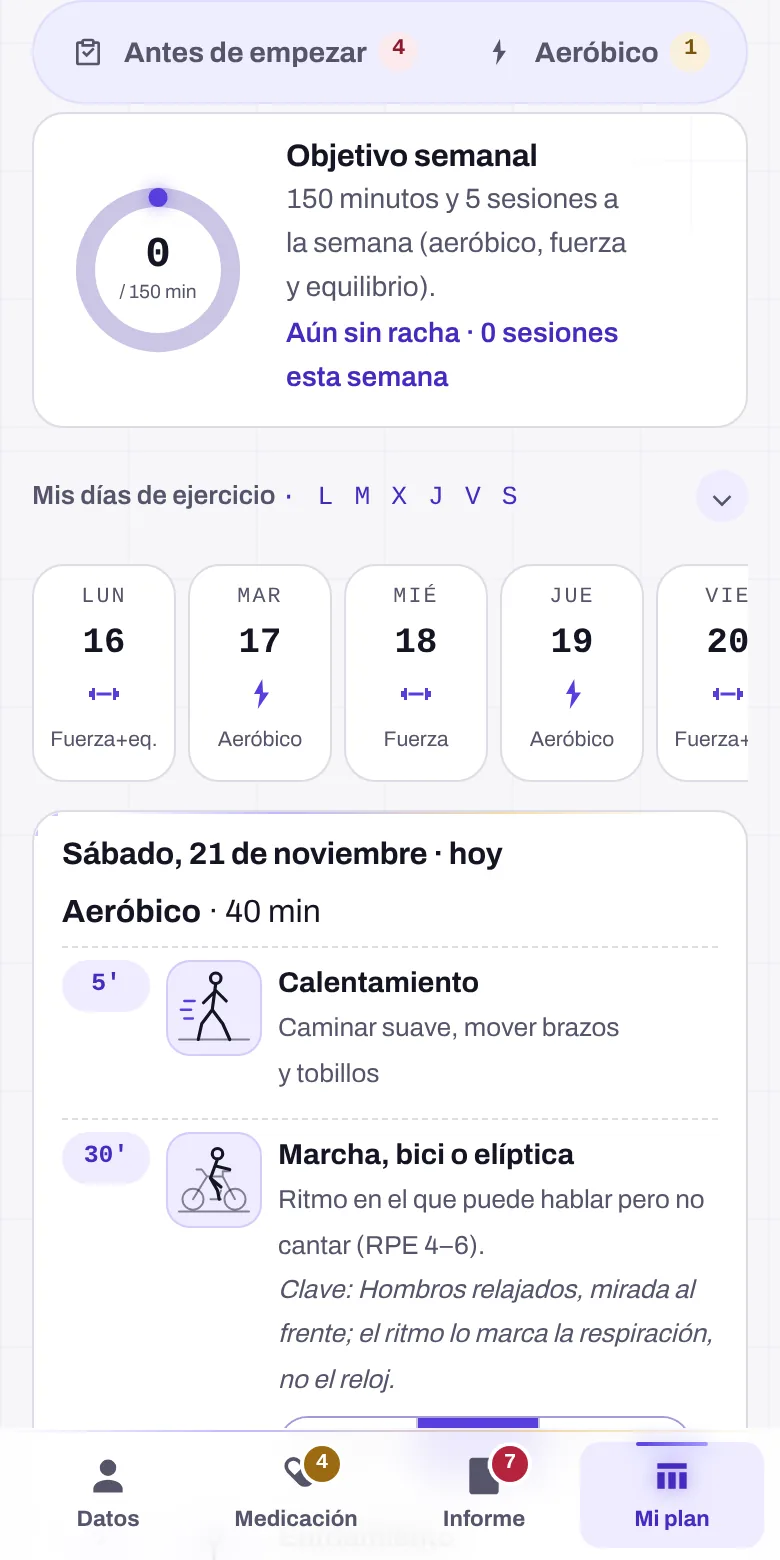
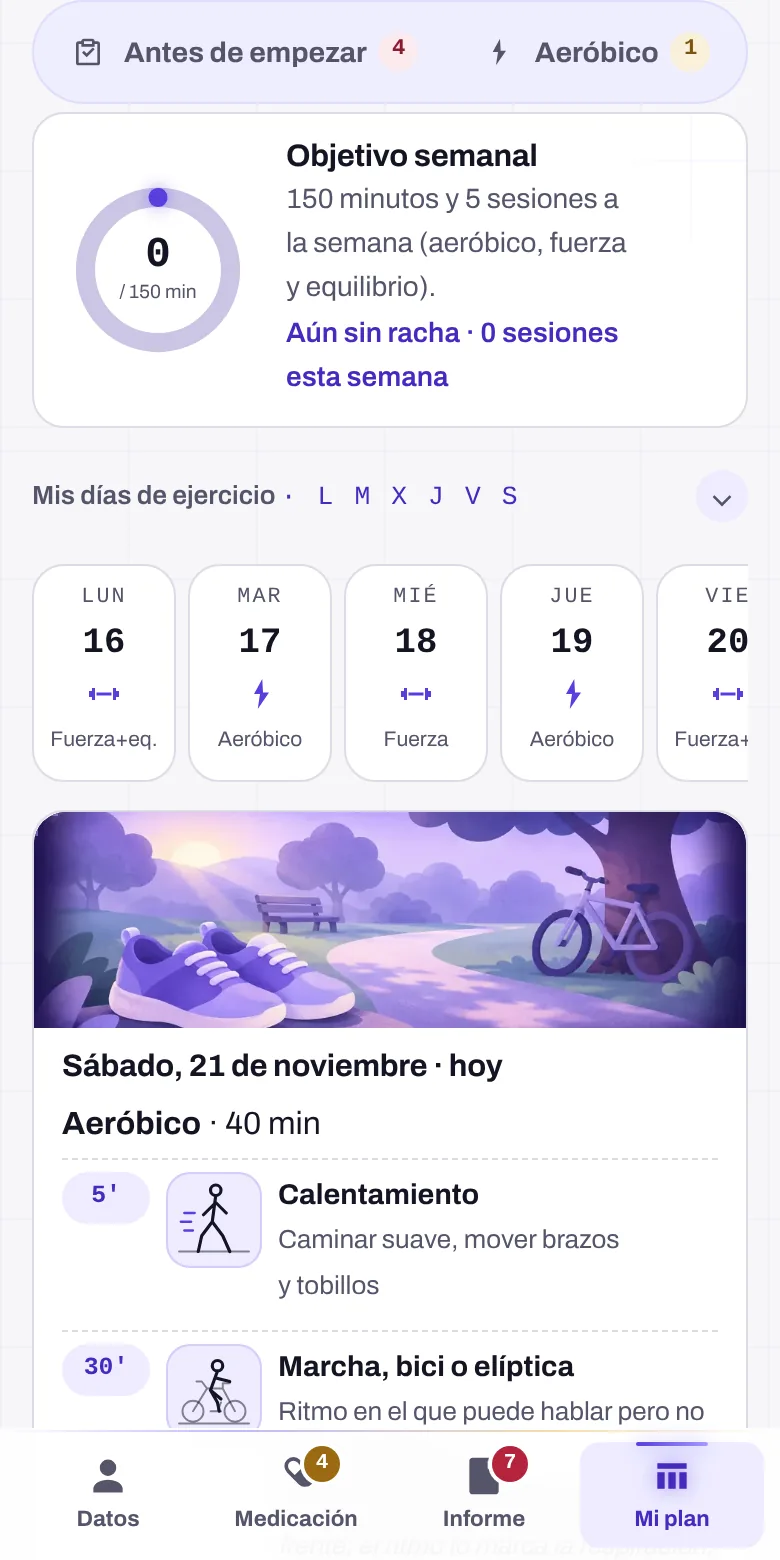
Imagenes de la app (bloque PA1 completo, 30 de 30): banda del dia en Mi plan (aerobico, fuerza, equilibrio, paseo) e ilustracion de cada sintoma en Si nota algo; capturas rehechas
Claude-Session: https://claude.ai/code/session_01WtVgh7xbR4kRDDh9Je2ank

Changed region(s): [[0.0308, 0.4923, 0.9538, 0.9231], [0.0923, 0.8615, 0.1538, 0.8923]]

diff --git a/app/js/app.js b/app/js/app.js
@@ -1,11 +1,11 @@
-import { construirIndice, buscar, evaluar, informeTexto, ORDEN_NIVEL, MOMENTOS, MOMENTO_TXT, HORA_MOMENTO, momentosPorDefecto, ventanaEntrenamiento, loEsencial, ALARMA, sintomasPosibles, SINTOMAS, sesionTipo, objetivoSemanal, rachaSemanas, progresion, planSemana, minutosPorSemana, compararListas, constantesRelevantes, chequeoPrevio, veredictoChequeo, SINTOMAS_ACSM, enfermedadSugerida, cribadoACSM, CRIBADO_TXT, nivelEvidencia, EVIDENCIA, seccionFT, comprobarCaso, zonaIntensidad, impactoPorFarmaco, puntuarSPPB, vivifrailDeSppb, evolucion, textoEvolucion } from "./engine.js?v=202611211158";
-import { APP_VERSION } from "./version.js?v=202611211158";
-import { extraerMedicacion, textoDePdf } from "./parser.js?v=202611211158";
-import { picto } from "./pictos.js?v=202611211158";
-import { pdfMedico, pdfPaciente, pdfEntrenador, pdfTarjeta, textoHistoria, prescripcion, listasVistazo, ritmoTexto, filasPlanPaciente, pdfEvolucion } from "./informes.js?v=202611211158";
-import { cargarScript } from "./libs.js?v=202611211158";
-import { textoDeImagen, textoDePdfEscaneado } from "./ocr.js?v=202611211158";
-import { t, aplicarIdioma, detectarIdioma, idioma } from "./i18n.js?v=202611211158";
+import { construirIndice, buscar, evaluar, informeTexto, ORDEN_NIVEL, MOMENTOS, MOMENTO_TXT, HORA_MOMENTO, momentosPorDefecto, ventanaEntrenamiento, loEsencial, ALARMA, sintomasPosibles, SINTOMAS, sesionTipo, objetivoSemanal, rachaSemanas, progresion, planSemana, minutosPorSemana, compararListas, constantesRelevantes, chequeoPrevio, veredictoChequeo, SINTOMAS_ACSM, enfermedadSugerida, cribadoACSM, CRIBADO_TXT, nivelEvidencia, EVIDENCIA, seccionFT, comprobarCaso, zonaIntensidad, impactoPorFarmaco, puntuarSPPB, vivifrailDeSppb, evolucion, textoEvolucion } from "./engine.js?v=202611211214";
+import { APP_VERSION } from "./version.js?v=202611211214";
+import { extraerMedicacion, textoDePdf } from "./parser.js?v=202611211214";
+import { picto } from "./pictos.js?v=202611211214";
+import { pdfMedico, pdfPaciente, pdfEntrenador, pdfTarjeta, textoHistoria, prescripcion, listasVistazo, ritmoTexto, filasPlanPaciente, pdfEvolucion } from "./informes.js?v=202611211214";
+import { cargarScript } from "./libs.js?v=202611211214";
+import { textoDeImagen, textoDePdfEscaneado } from "./ocr.js?v=202611211214";
+import { t, aplicarIdioma, detectarIdioma, idioma } from "./i18n.js?v=202611211214";
 
 // Si la hoja de estilos aún no ha llegado (los módulos se precargan en paralelo), esperar: así la primera maquetación ya es la definitiva y no hay saltos.
 await new Promise((ok) => { const l = document.querySelector('link[rel="stylesheet"]'); if (!l || l.sheet) ok(); else { l.addEventListener("load", ok, { once: true }); l.addEventListener("error", ok, { once: true }); setTimeout(ok, 4000); } });
@@ -1068,6 +1068,7 @@ function sintomaDetalle(res) {
   const s = sintomasPosibles(res).find((x) => x.id === sintomaAbierto);
   if (!s) return "";
   return `<div class="sintoma">
+    <img class="sint-img" src="assets/img/sintoma-${s.id}.webp" alt="" width="104" height="104" decoding="async">
     <p>${s.farmacos.length ? t("sintomas.posibles", { f: s.farmacos.join(", ") }) : t("sintomas.ninguno")}</p>
     <p>${glosar(s.consejo)}</p>
     ${s.alarma ? `<p class="sintoma-alarma">${s.alarma}</p>` : ""}
@@ -1648,6 +1649,7 @@ function renderPlan(cont) {
     </details>
     <div class="tira" role="group" aria-label="${t("hoy.esta_semana")}">${dias.map((d) => { const iso = hoyISO(d); const tipo = plan[d.getDay()] || "descanso"; const hecho = diario.some((x) => x.fecha === iso); const clase = ["dia", iso === hoy ? "hoy" : "", iso === diaPlan ? "sel" : "", hecho ? "hecho" : "", tipo === "descanso" ? "descanso" : ""].filter(Boolean).join(" "); return `<button type="button" class="${clase}" data-iso="${iso}" aria-pressed="${iso === diaPlan}"><span class="d">${fmtDia(d)}</span><span class="n">${d.getDate()}</span>${icono({ aerobico: "aerobico", fuerza: "fuerza", fuerza_eq: "fuerza", descanso: "paseo" }[tipo] || "fuerza")}<span class="tipo">${{ aerobico: t("sesion.aerobico"), fuerza: t("sesion.fuerza"), fuerza_eq: t("plan.fuerza_eq_corto"), descanso: t("plan.descanso_corto") }[tipo]}</span>${hecho ? `<span class="ok">✓</span>` : ""}</button>`; }).join("")}</div>
     <div class="plan-dia">
+      <img class="plan-banda" src="assets/img/${{ aerobico: "plan-aerobico", fuerza: "plan-fuerza", fuerza_eq: "plan-equilibrio", equilibrio: "plan-equilibrio" }[tipoSel] || "plan-paseo"}.webp" alt="" width="960" height="480" loading="lazy" decoding="async">
       <div class="plan-dia-cab"><h3>${sel.toLocaleDateString(idioma(), { weekday: "long", day: "numeric", month: "long" })}${hoyISO(sel) === hoy ? ` · ${t("hoy.titulo").toLowerCase()}` : ""}</h3>${hechoSel.length ? `<span class="chip chip-ok">${t("plan.hecho", { m: hechoSel.reduce((n, x) => n + (x.min || 0), 0) })}</span>` : ""}</div>
       ${ses ? `
         <p class="plan-dia-tit"><b>${ses.titulo}</b> · ${ses.min} min</p>

diff --git a/app/index.html b/app/index.html
@@ -58,18 +58,18 @@
 }
 </script>
 <link rel="preload" href="assets/fonts/Archivo-latin.woff2" as="font" type="font/woff2" crossorigin>
-<link rel="modulepreload" href="js/version.js?v=202611211158">
-<link rel="modulepreload" href="js/libs.js?v=202611211158">
-<link rel="modulepreload" href="js/i18n.js?v=202611211158">
-<link rel="modulepreload" href="js/pictos.js?v=202611211158">
-<link rel="modulepreload" href="js/engine.js?v=202611211158">
-<link rel="modulepreload" href="js/parser.js?v=202611211158">
-<link rel="modulepreload" href="js/informes.js?v=202611211158">
-<link rel="modulepreload" href="js/ocr.js?v=202611211158">
+<link rel="modulepreload" href="js/version.js?v=202611211214">
+<link rel="modulepreload" href="js/libs.js?v=202611211214">
+<link rel="modulepreload" href="js/i18n.js?v=202611211214">
+<link rel="modulepreload" href="js/pictos.js?v=202611211214">
+<link rel="modulepreload" href="js/engine.js?v=202611211214">
+<link rel="modulepreload" href="js/parser.js?v=202611211214">
+<link rel="modulepreload" href="js/informes.js?v=202611211214">
+<link rel="modulepreload" href="js/ocr.js?v=202611211214">
 <link rel="preload" href="data/kb.json" as="fetch" crossorigin>
 <link rel="preload" href="data/ddi_curated.json" as="fetch" crossorigin>
 <meta name="theme-color" content="#140B3A">
-<link rel="stylesheet" href="css/style.css?v=202611211158">
+<link rel="stylesheet" href="css/style.css?v=202611211214">
 </head>
 <body class="cargando" data-modo="paciente">
 
@@ -406,6 +406,6 @@
   <button type="button" data-ir="plan" data-ic="plan"><span data-i18n="nav.plan">Mi plan</span><b class="nav-badge" hidden></b></button>
 </nav>
 
-<script type="module" src="js/app.js?v=202611211158"></script>
+<script type="module" src="js/app.js?v=202611211214"></script>
 </body>
 </html>

diff --git a/app/css/style.css b/app/css/style.css
@@ -1922,3 +1922,12 @@ body.sin-meds .ilustracion::before { display: none; }
 #bloque-cribado fieldset.crib-preg { clear: both; }
 :root[data-theme="contrast"] :is(.ses-img, .crib-img) { box-shadow: none; }
 @media print { .ses-img, .crib-img { display: none !important; } }
+/* Mi plan: banda ilustrada del tipo de dia (aerobico, fuerza, equilibrio, paseo) en lo alto de la tarjeta del dia */
+.plan-dia > .plan-banda { display: block; width: calc(100% + 28px); max-width: none; height: 120px; margin: -12px -14px 10px; object-fit: cover; object-position: center 55%; border-radius: var(--r-md) var(--r-md) 0 0; background: #140b3a; }
+@media (min-width: 640px) { .plan-dia > .plan-banda { height: 150px; } }
+/* Si nota algo: ilustracion de la solucion junto al consejo de cada sintoma */
+.sintoma { display: flow-root; }
+.sint-img { float: right; width: 104px; height: 104px; margin: 2px 0 8px 14px; border-radius: 18px; box-shadow: 0 .6rem 1.4rem -.8rem rgba(20, 11, 58, .6); }
+:root[data-theme="contrast"] .sint-img { box-shadow: none; }
+@media print { .plan-banda, .sint-img { display: none !important; } }
+@media (max-width: 639px) { .sint-img { width: 84px; height: 84px; margin-left: 10px; } .plan-dia > .plan-banda { height: 108px; } }

diff --git a/app/js/informes.js b/app/js/informes.js
@@ -1,8 +1,8 @@
 /* Resúmenes en PDF (jsPDF, global window.jspdf).
    Dos documentos: "Informe clínico" para el médico y "Su plan" para el paciente.
    Sistema de maquetación propio: cabecera, bandas, tablas con zebra, tarjetas con acento, pastillas de nivel. */
-import { jspdf, cargarScript } from "./libs.js?v=202611211158";
-import { ORDEN_NIVEL, ORDEN_DDI, MOMENTO_TXT, loEsencial, ALARMA, PLAN_SEMANA, sesionTipo, planSemana, textoEvolucion, SINTOMAS } from "./engine.js?v=202611211158";
+import { jspdf, cargarScript } from "./libs.js?v=202611211214";
+import { ORDEN_NIVEL, ORDEN_DDI, MOMENTO_TXT, loEsencial, ALARMA, PLAN_SEMANA, sesionTipo, planSemana, textoEvolucion, SINTOMAS } from "./engine.js?v=202611211214";
 
 const AUTOR = "Dr. Pelayo Fdez. Cidón · Medicina Interna · prescriptor de ejercicio físico";
 const MARCA = "Fuerza Basada en Evidencia";

diff --git a/app/sw.js b/app/sw.js
@@ -1,7 +1,7 @@
 /* Service worker: la aplicación y la base de conocimiento funcionan sin conexión.
    El nombre de la caché cambia con cada despliegue (scripts/bump_version.py lo sella), de modo que
    una versión nueva se descarga en segundo plano y se activa cuando el usuario pulsa "Actualizar". */
-const VERSION = "202611211158";
+const VERSION = "202611211214";
 const CACHE = "medex-" + VERSION;
 const APP = ["./", "index.html", "novedades.html", "acerca.html", "manifest.webmanifest", "css/style.css", "js/app.js", "js/engine.js", "js/parser.js", "js/informes.js", "js/pictos.js", "js/ocr.js", "js/libs.js", "js/i18n.js", "js/version.js",
   "data/kb.json", "data/ddi_curated.json", "data/ddi.json", "data/marcas.json",

diff --git a/app/js/parser.js b/app/js/parser.js
@@ -1,6 +1,6 @@
 /* Reconocimiento de medicación en texto libre (lista pegada o texto extraído de un PDF). */
-import { pdfjs } from "./libs.js?v=202611211158";
-import { normalizar } from "./engine.js?v=202611211158";
+import { pdfjs } from "./libs.js?v=202611211214";
+import { normalizar } from "./engine.js?v=202611211214";
 
 let catalogo = null; // [{norm, pid, tipo, dosis, unidad}] ordenado por longitud desc
 

diff --git a/app/js/ocr.js b/app/js/ocr.js
@@ -1,5 +1,5 @@
 /* OCR en el navegador con Tesseract.js (se carga bajo demanda; el modelo en español se descarga la primera vez). */
-import { tesseract, pdfjs } from "./libs.js?v=202611211158";
+import { tesseract, pdfjs } from "./libs.js?v=202611211214";
 const LANG_PATH = "https://tessdata.projectnaptha.com/4.0.0_fast";
 
 let worker = null;
